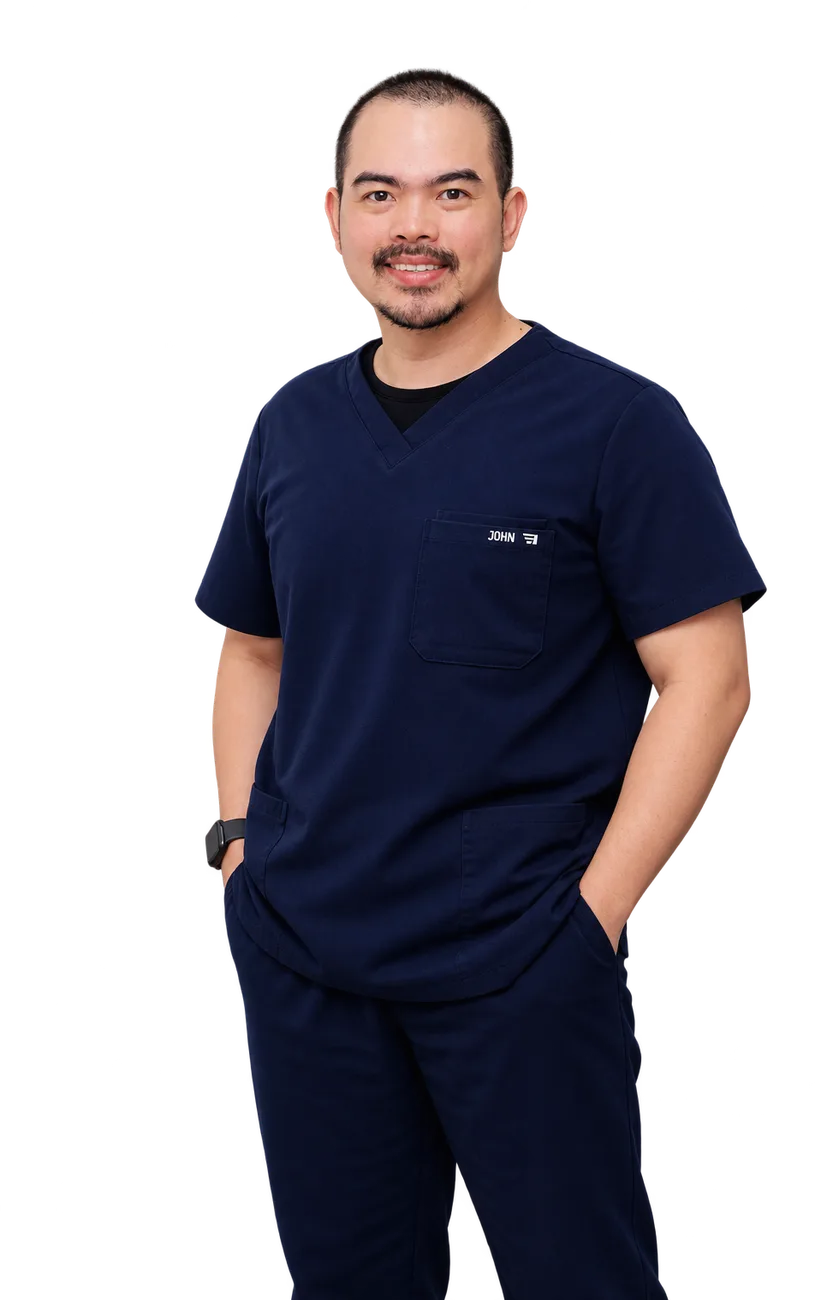
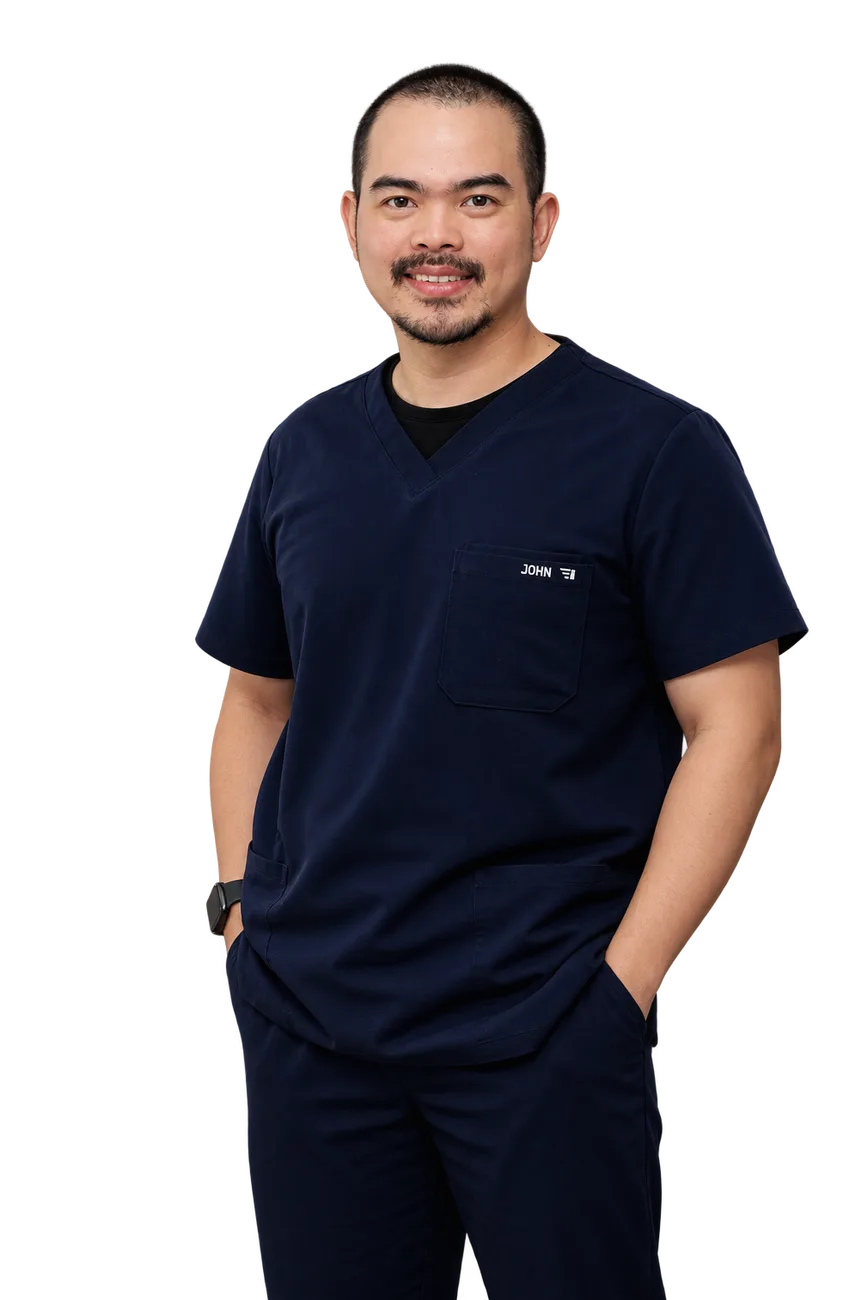
hero photo fix and blob

diff --git a/index.html b/index.html
@@ -563,7 +563,7 @@
           </div>
         </div>
         <figure class="hero-figure reveal" style="--d:180ms">
-          <img src="photos/hero-bodyshot2.webp" alt="Portrait of John Saenz, Registered Nurse and founder of ClinicIQ Solutions" loading="eager" fetchpriority="high" decoding="async" width="815" height="1300" />
+          <img src="photos/hero-bodyshot2.webp" alt="Portrait of John Saenz, Registered Nurse and founder of ClinicIQ Solutions" loading="eager" fetchpriority="high" decoding="async" width="868" height="1300" />
         </figure>
       </div>
     </section>
@@ -821,9 +821,14 @@
           ctx.setTransform(dpr, 0, 0, dpr, 0, 0);
         }
         fit();
-        window.addEventListener('resize', fit);
-        hero.addEventListener('pointermove', function (e) {
+        // hero can resize without a window resize (font swap, reflow, scrollbar,
+        // zoom) — a stale canvas paints the blob offset from the real cursor
+        if (window.ResizeObserver) new ResizeObserver(fit).observe(hero);
+        else window.addEventListener('resize', fit);
+        // listen globally: overlays/coalesced events can swallow hero-level moves
+        window.addEventListener('pointermove', function (e) {
           var r = hero.getBoundingClientRect();
+          if (e.clientY < r.top || e.clientY > r.bottom || e.clientX < r.left || e.clientX > r.right) return;
           mx = e.clientX - r.left; my = e.clientY - r.top;
           if (!have) { have = true; bx = mx; by = my; }
           lastMove = performance.now();
